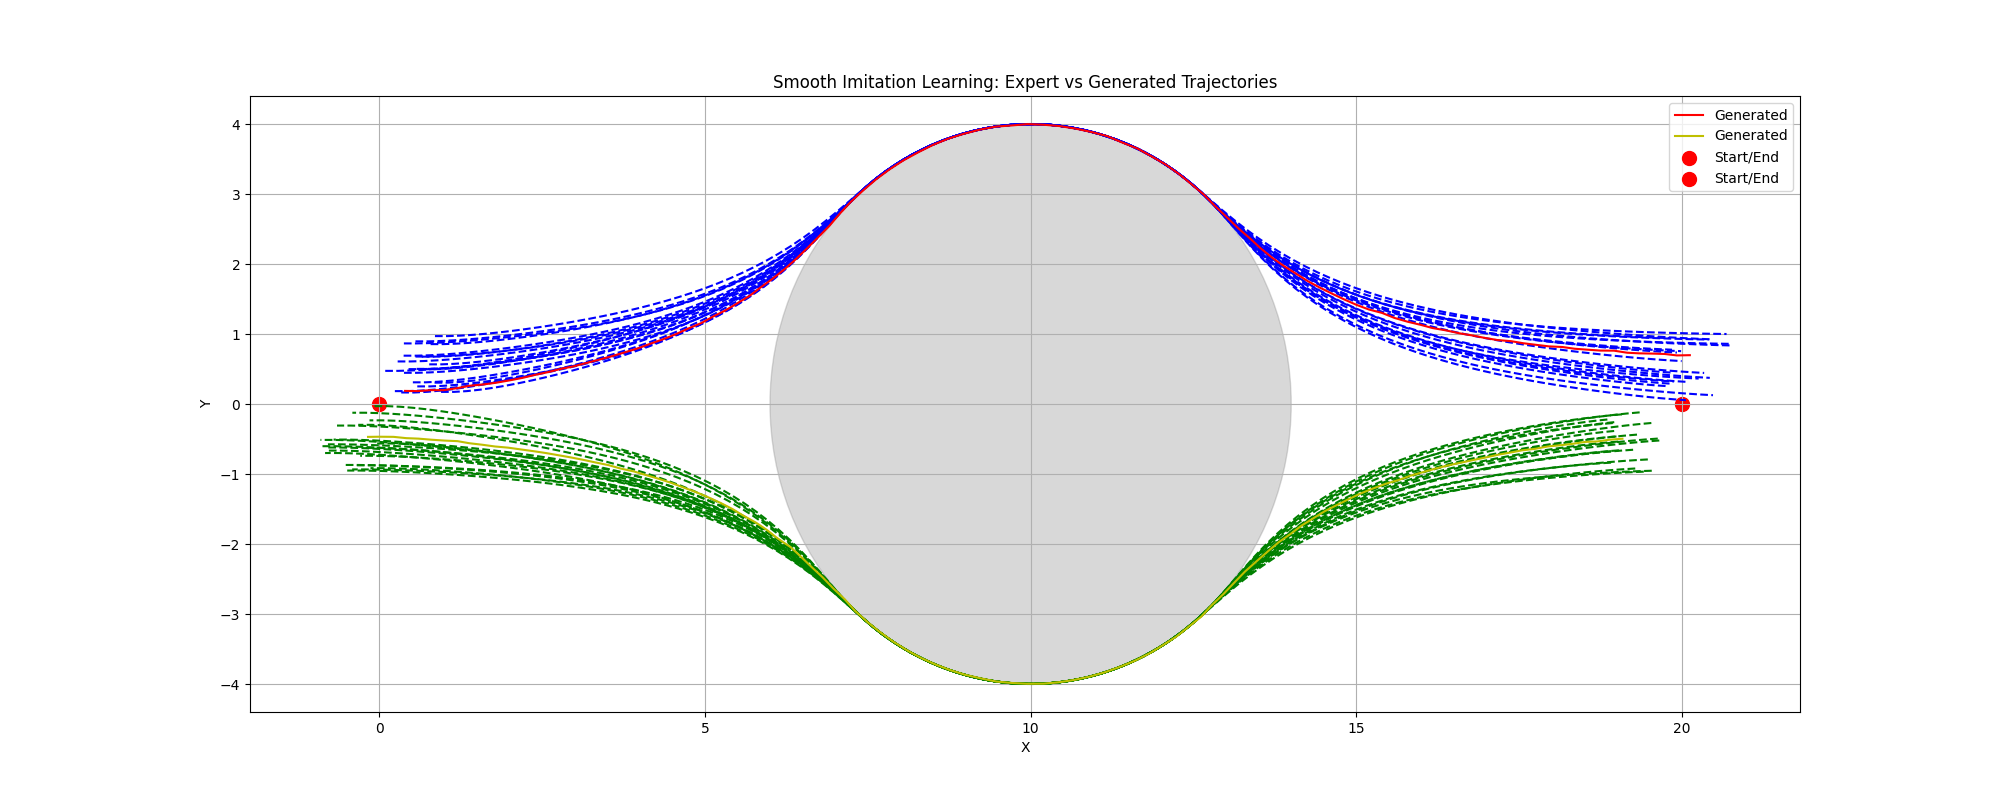
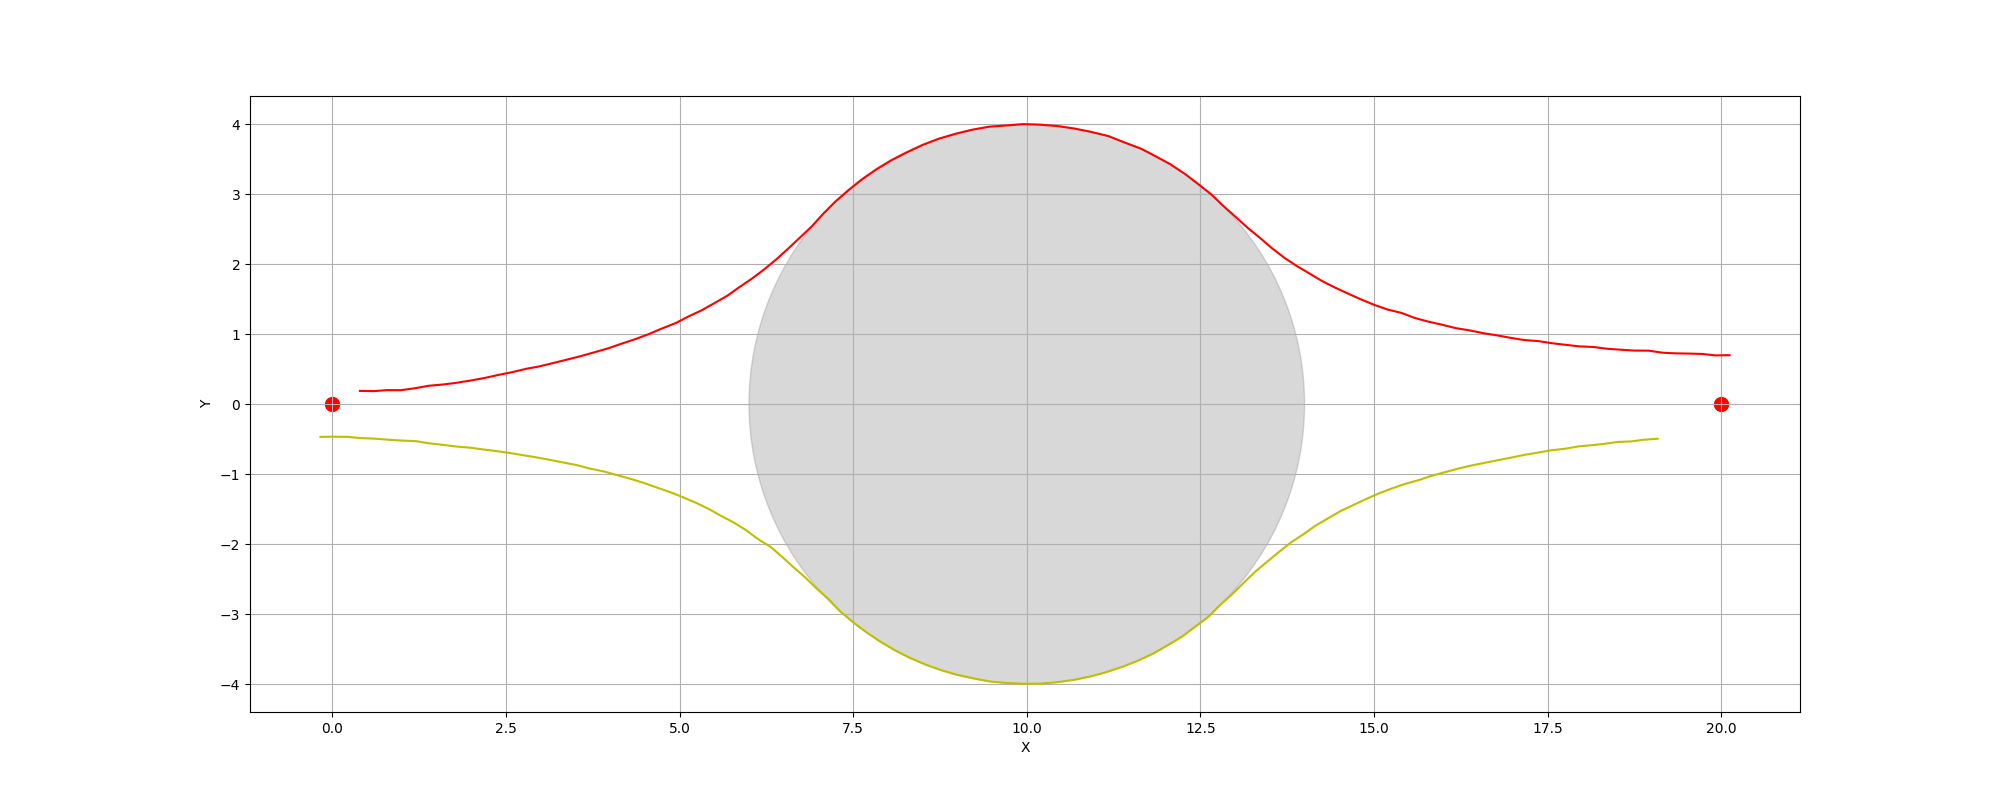
redoing graphs

diff --git a/decentralized_two_denoiser/diffusion_shared_loss.py b/decentralized_two_denoiser/diffusion_shared_loss.py
@@ -332,10 +332,6 @@ def compute_action_diff(alphas_bar, alphas, betas, denoiser):
             u_out = (1 / sqrt_alpha_t) * (u_out - (beta_t / sqrt_one_minus_alpha_bar_t) * eps_theta) + sigma_t * z
     return u_out
 
-print(alphas_bar.shape)
-print(alphas.shape)
-print(betas.shape)
-
 u_out1 = compute_action_diff(alphas_bar, alphas, betas, denoiser1)
 u_out2 = compute_action_diff(alphas_bar, alphas, betas, denoiser2)
 
@@ -351,16 +347,16 @@ expert_data_down = expert_data_down * std + mean
 
 # Plot the Expert and Generated Trajectories with a Single Central Obstacle
 plt.figure(figsize=(20, 8))
-for traj in expert_data_up[:20]:  # Plot a few expert trajectories
-    first_trajectory = traj
-    x = [point[0] for point in first_trajectory]
-    y = [point[1] for point in first_trajectory]
-    plt.plot(x, y, 'b--')
-for traj in expert_data_down[:20]:  # Plot a few expert trajectories
-    first_trajectory = traj
-    x = [point[0] for point in first_trajectory]
-    y = [point[1] for point in first_trajectory]
-    plt.plot(x, y, 'g--')
+# for traj in expert_data_up[:20]:  # Plot a few expert trajectories
+#     first_trajectory = traj
+#     x = [point[0] for point in first_trajectory]
+#     y = [point[1] for point in first_trajectory]
+#     plt.plot(x, y, 'b--')
+# for traj in expert_data_down[:20]:  # Plot a few expert trajectories
+#     first_trajectory = traj
+#     x = [point[0] for point in first_trajectory]
+#     y = [point[1] for point in first_trajectory]
+#     plt.plot(x, y, 'g--')
 
 # Plot the generated trajectory
 plt.plot(traj1[:, 0], traj1[:, 1], 'r-', label='Generated')
@@ -375,8 +371,8 @@ plt.gca().add_patch(circle)
 plt.scatter(initial_point_up[0], initial_point_up[1], c='red', s=100, label='Start/End')
 plt.scatter(final_point_up[0], final_point_up[1], c='red', s=100, label='Start/End')
 
-plt.legend()
-plt.title('Smooth Imitation Learning: Expert vs Generated Trajectories')
+# plt.legend()
+# plt.title('Smooth Imitation Learning: Expert vs Generated Trajectories')
 plt.xlabel('X')
 plt.ylabel('Y')
 plt.grid(True)

diff --git a/decentralized_two_denoiser/multi_mode_generation.py b/decentralized_two_denoiser/multi_mode_generation.py
@@ -297,16 +297,16 @@ expert_data_rev = expert_data_rev * std + mean
 
 # Plot the Expert and Generated Trajectories with a Single Central Obstacle
 plt.figure(figsize=(20, 8))
-for traj in expert_data[1::100]:  # Plot a few expert trajectories
-    first_trajectory = traj
-    x = [point[0] for point in first_trajectory]
-    y = [point[1] for point in first_trajectory]
-    plt.plot(x, y, 'b--')
-for traj in expert_data_rev[1::100]:  # Plot a few expert trajectories
-    first_trajectory = traj
-    x = [point[0] for point in first_trajectory]
-    y = [point[1] for point in first_trajectory]
-    plt.plot(x, y, 'g--')
+# for traj in expert_data[1::100]:  # Plot a few expert trajectories
+#     first_trajectory = traj
+#     x = [point[0] for point in first_trajectory]
+#     y = [point[1] for point in first_trajectory]
+#     plt.plot(x, y, 'b--')
+# for traj in expert_data_rev[1::100]:  # Plot a few expert trajectories
+#     first_trajectory = traj
+#     x = [point[0] for point in first_trajectory]
+#     y = [point[1] for point in first_trajectory]
+#     plt.plot(x, y, 'g--')
 
 # Plot the generated trajectory
 plt.plot(traj1[:, 0], traj1[:, 1], 'r-', label='Generated')
@@ -321,8 +321,8 @@ plt.gca().add_patch(circle)
 plt.scatter(initial_point_up[0], initial_point_up[1], c='red', s=100, label='Start/End')
 plt.scatter(final_point_up[0], final_point_up[1], c='red', s=100, label='Start/End')
 
-plt.legend()
-plt.title('Smooth Imitation Learning: Expert vs Generated Trajectories')
+# plt.legend()
+# plt.title('Smooth Imitation Learning: Expert vs Generated Trajectories')
 plt.xlabel('X')
 plt.ylabel('Y')
 plt.grid(True)
